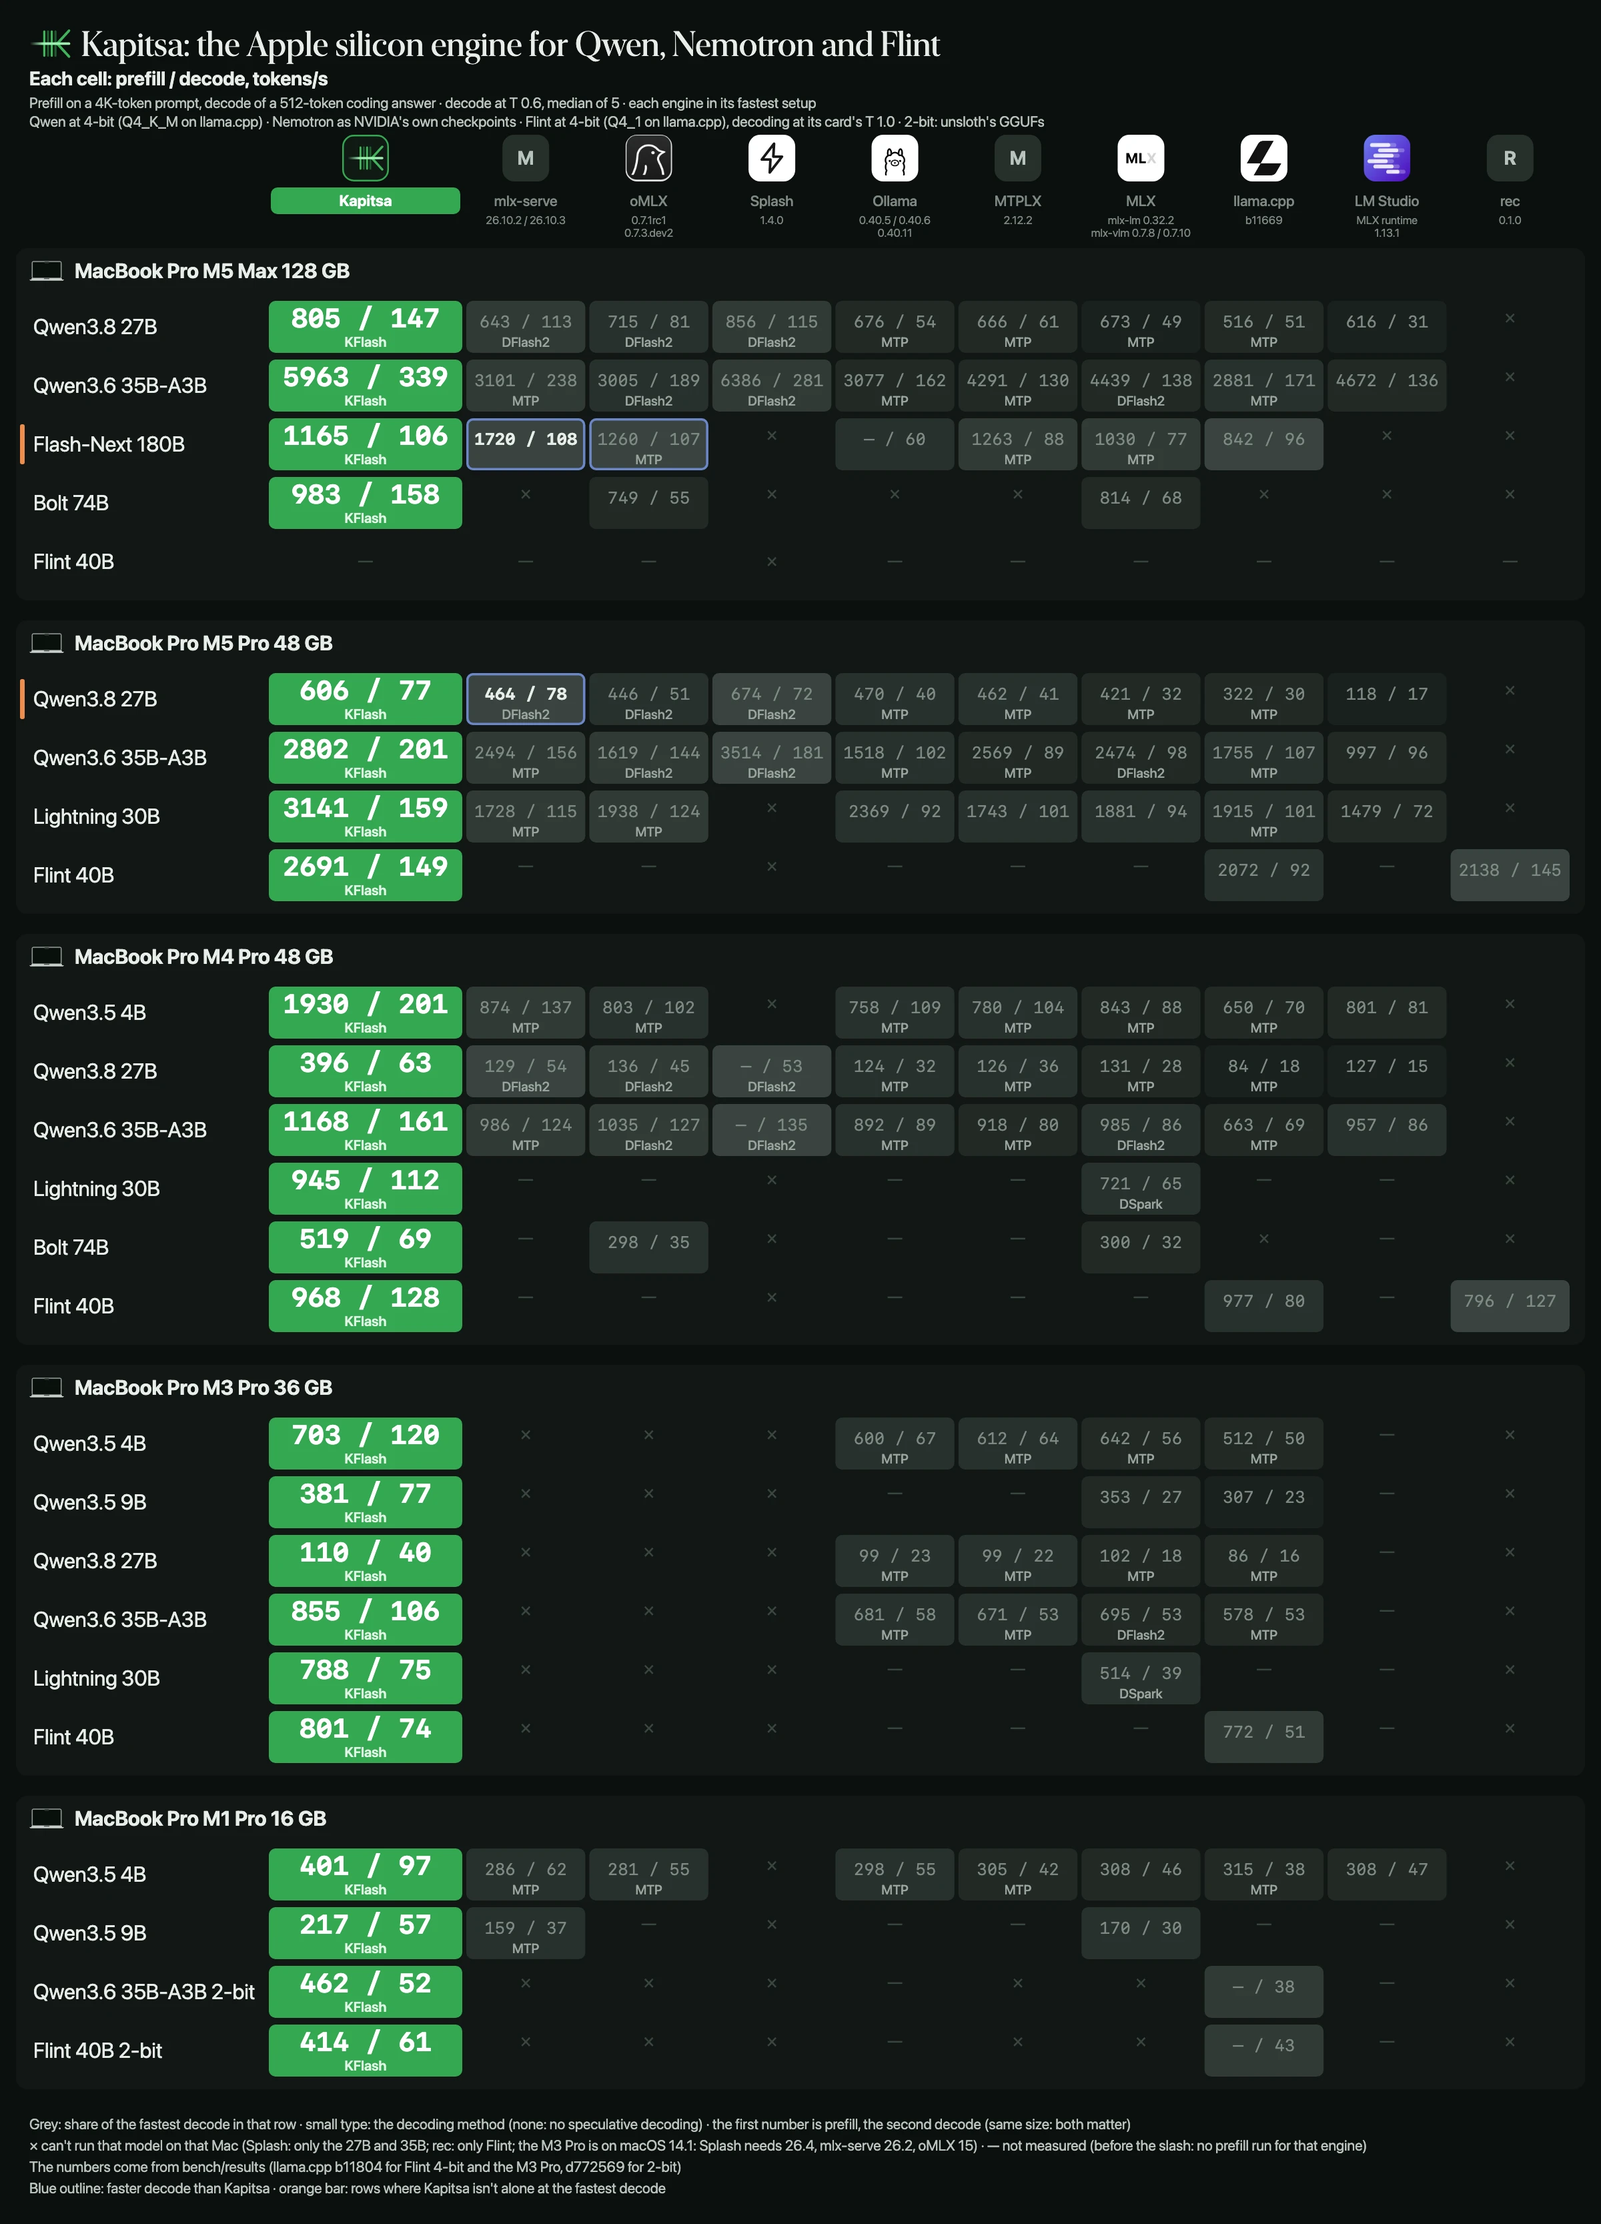
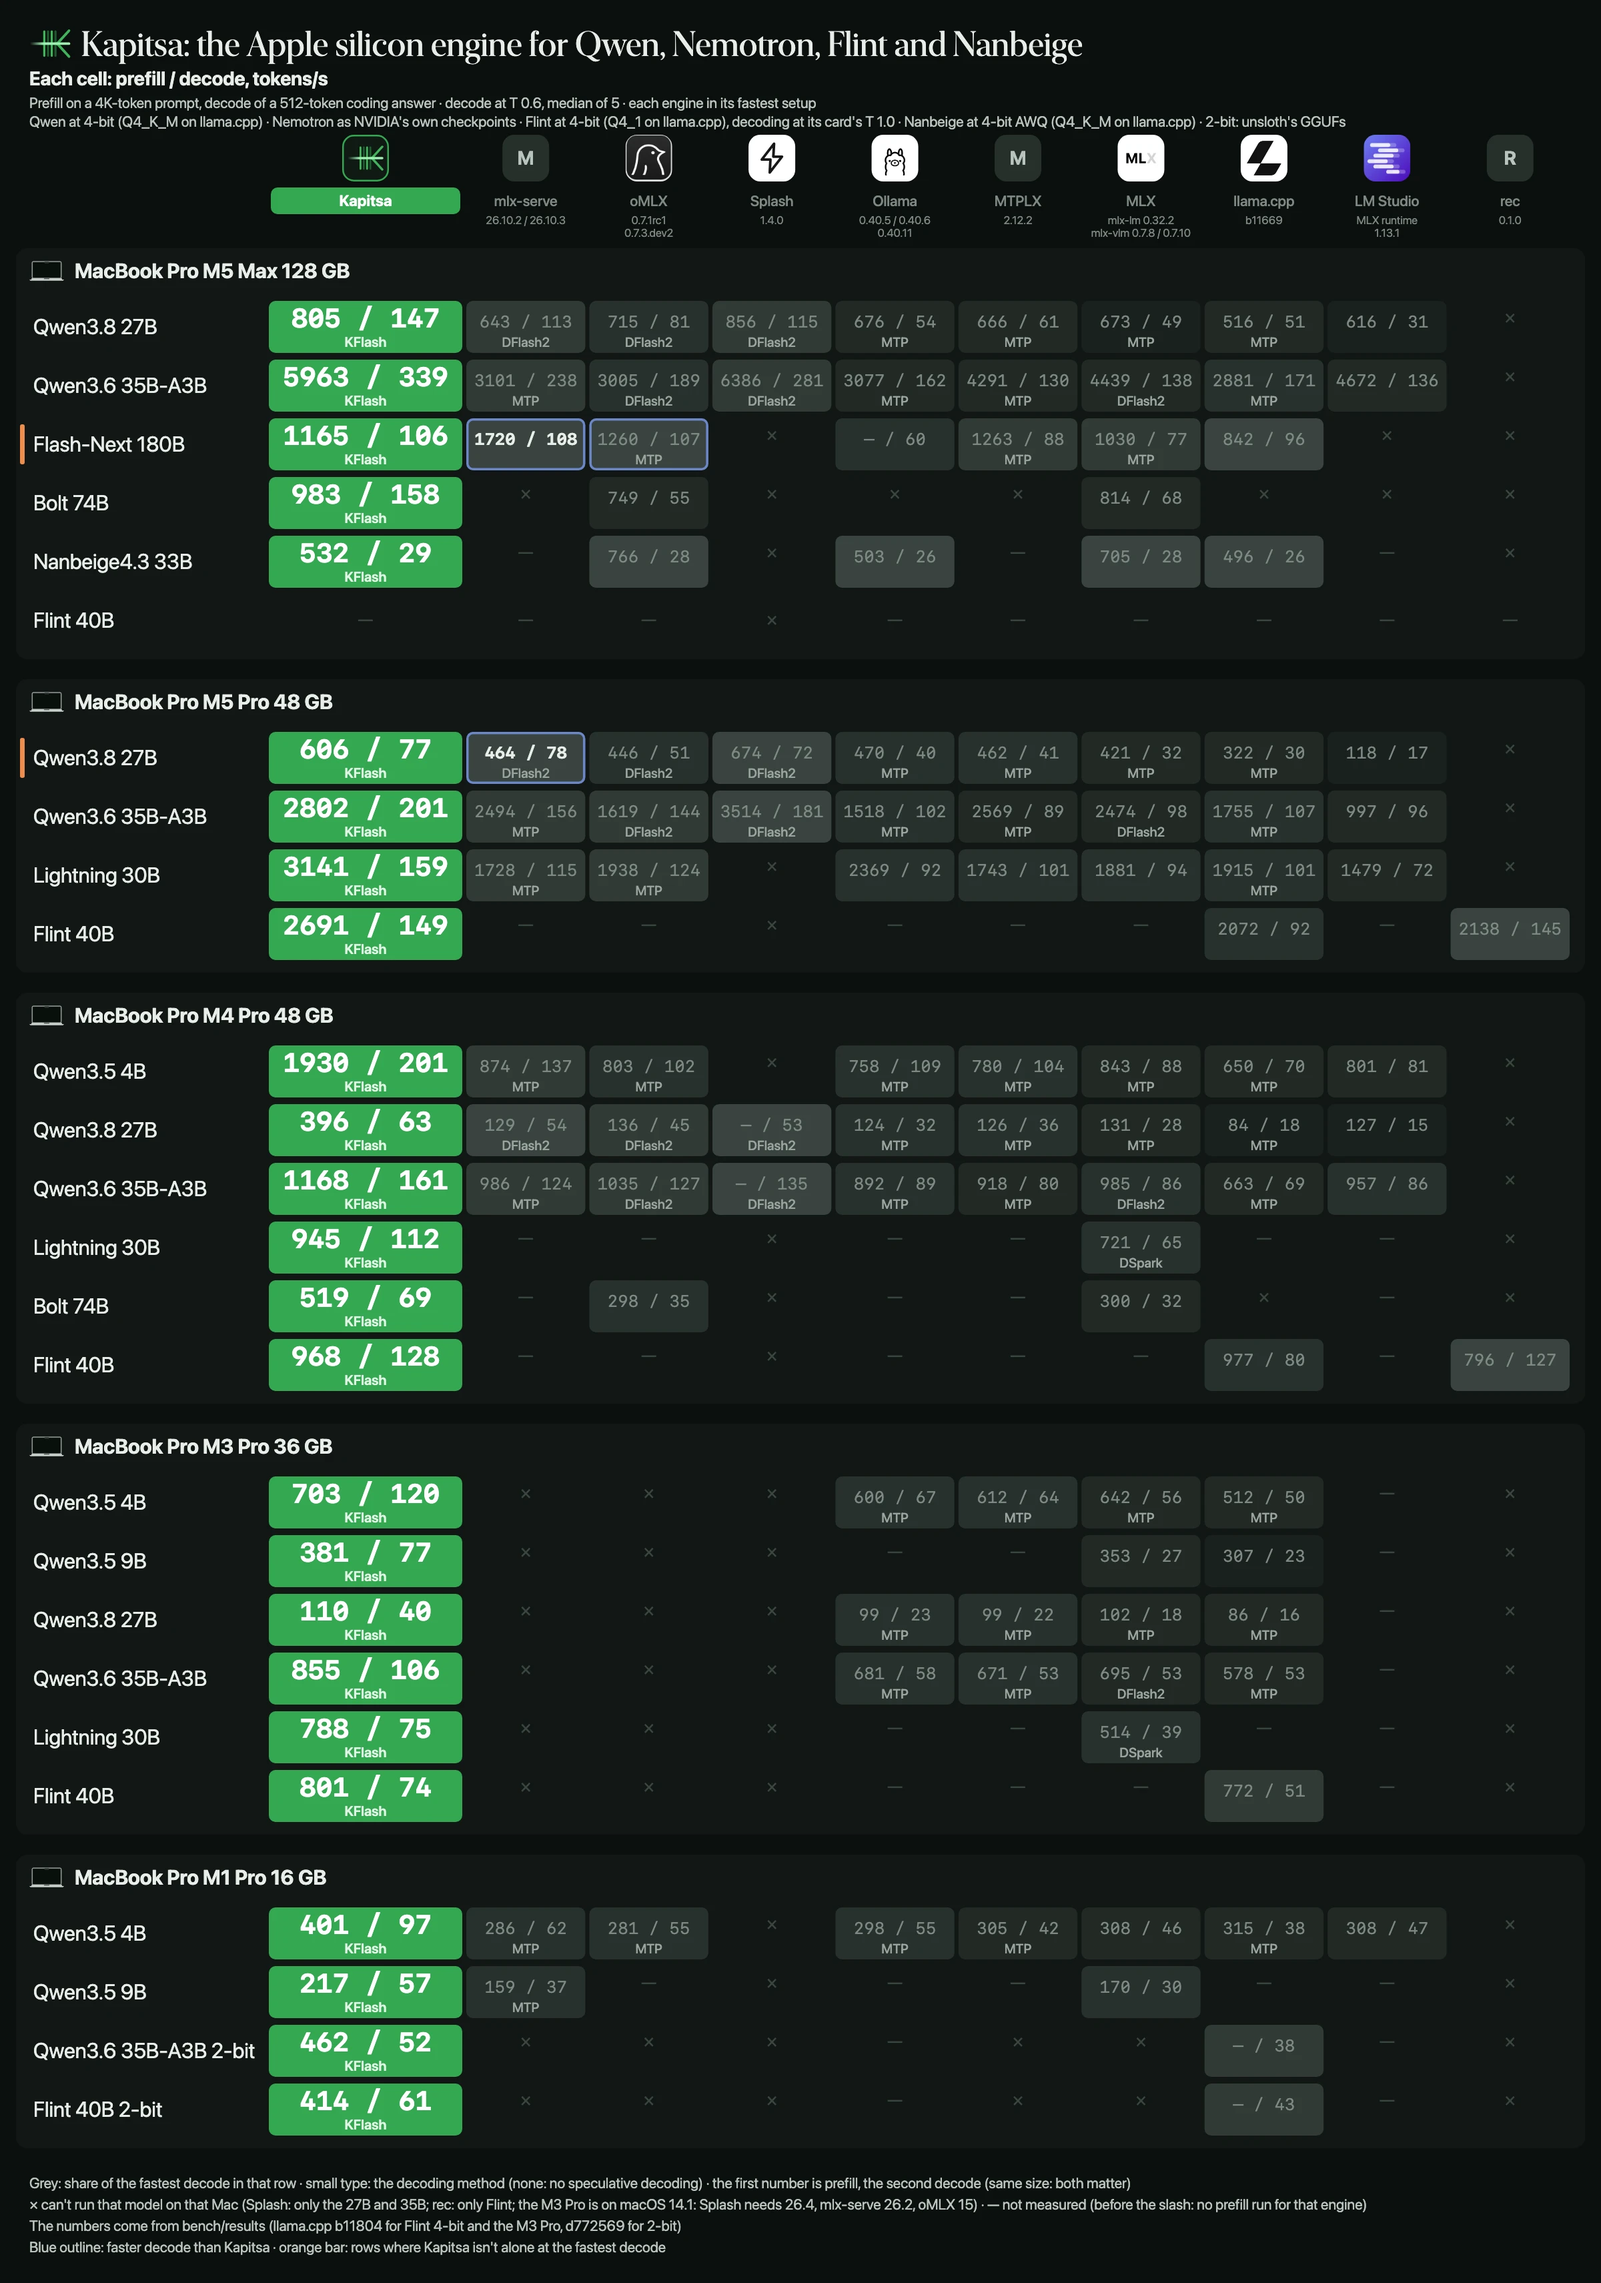
Poster and tables: Nanbeige4.3-33B on the M5 Max (Kapitsa 532 / 29 tok/s, the row's fastest decode; 33 of 37 pairs) (#636)

diff --git a/tests/test_readme_images.py b/tests/test_readme_images.py
@@ -25,7 +25,7 @@ for r in rows:
     if ri.is_num(v):
         n += 1
         assert label == "KFlash", (r["model"], label)
-assert n == 37, n   # every Kapitsa number in readme_images.json; update when cells are added or removed
+assert n == 38, n   # every Kapitsa number in readme_images.json; update when cells are added or removed
 assert all(h["method"] == "KFlash" for h in ri.header_rows(data) if h["kap"] and h["value"] is not None)
 hr = ri.header_rows(data)   # the header SVGs' <desc> (and the README alt text) name Kapitsa's method as KFlash
 assert "Kapitsa with KFlash " in ri.header_desc(data, hr), ri.header_desc(data, hr)

diff --git a/README.md b/README.md
@@ -13,7 +13,7 @@ Kapitsa is an inference engine for Apple silicon that runs Qwen, Nemotron and Re
 - [2026/10] 🪶 **Flint on a 16 GB Mac: decodes at 61 tok/s vs llama.cpp's 43 on the same 2-bit GGUF.** `--model flint` takes unsloth's 2-bit GGUF on 16-24 GB Macs: its routed experts run as stored, the rest requantized to 3-6 bits. 61 tok/s decode on an M1 Pro, in 11.6 GB ([numbers](docs/benchmarks.md#recursive-flint-40b-a25b-with-2-bit-experts-m1-pro-16-gb-2026-10-22)).
 - [2026/10] 🪨 **Recursive's Flint 40B-A2.5B: Kapitsa reads prompts faster than Recursive's own engine and decodes faster than llama.cpp.** On the M4 Pro every Kapitsa run read 4K and 16K prompts faster than every run of rec 0.1.0. On the M5 Pro, since Flint's attention moved to the tensor units (#345), both runs read 4K and 16K prompts faster than rec's and llama.cpp's; earlier builds read slower, and both runs carry harness flags. On both Macs every Kapitsa run decodes faster than llama.cpp ([M4 Pro](docs/benchmarks.md#recursive-flint-40b-a25b-m4-pro-2026-10-22), [M5 Pro](docs/benchmarks.md#recursive-flint-40b-a25b-m5-pro-2026-10-22)).
 - [2026/10] 🚀 **KFlash: tree speculative decoding, up to 3.5× llama.cpp and 2.2× oMLX.** One verify pass checks a whole tree of the drafter's guesses ([how it works](docs/kflash.md)).
-- [2026/10] 🏆 **Kapitsa: the fastest decode in 32 of 36 model and Mac pairs** against nine engines, up to 3.0× MLX ([poster](#benchmarks)).
+- [2026/10] 🏆 **Kapitsa: the fastest decode in 33 of 37 model and Mac pairs** against nine engines, up to 3.0× MLX ([poster](#benchmarks)).
 - [2026/10] 🤝 **KFlash budget: subagents decode together.** Three requests at once share one verify pass, up to **+23% total throughput** on the 27B.
 - [2026/10] ⚡ **QMT prefill: read the prompt up to 1.5× faster on M5.** Metal 4 matrix units for the prompt (4B, M5 Pro).
 - [2026/10] 💾 **SSD prefix cache: restart the server, keep the conversation.** A 16K-token follow-up on the 35B starts in **0.16 s instead of 17 s**, about 100× (`--disk-cache`).
@@ -59,7 +59,7 @@ server to its own Mac. [Usage guide](docs/usage.md)</sub>
 
 ## Benchmarks
 
-Kapitsa has the fastest decode in 32 of the 36 model and Mac pairs measured against nine engines ([how each number was measured](docs/benchmarks.md#how-the-readme-poster-was-measured)).
+Kapitsa has the fastest decode in 33 of the 37 model and Mac pairs measured against nine engines ([how each number was measured](docs/benchmarks.md#how-the-readme-poster-was-measured)).
 
 <picture>
   <source media="(prefers-color-scheme: dark)" srcset="docs/assets/benchmarks-dark.webp">
@@ -77,7 +77,9 @@ The catalog models measured on each Mac, against the engines that run them: one 
 <sub>Each cell: prefill / decode, tokens/s (a lone number is decode: no prefill run) · 🟩 fastest decode · ≈ a decode tie with Kapitsa · small type: the decoding method (none: no speculative decoding) · × can't run on that Mac · — not measured</sub>
 
 <details>
-<summary><b>MacBook Pro (16-inch, 2026) · M5 Max · 128 GB</b> · 7 models</summary>
+<summary><b>MacBook Pro (16-inch, 2026) · M5 Max · 128 GB</b> · 8 models</summary>
+
+**Qwen and Nemotron**
 
 | Model | <mark>**Kapitsa**</mark> | <sub>mlx‑serve<br>26.10.2 / 26.10.3</sub> | <sub>oMLX<br>0.7.1rc1 / 0.7.3.dev2</sub> | <sub>Splash<br>1.4.0</sub> | <sub>Ollama<br>0.40.5 / 0.40.11</sub> | <sub>MTPLX<br>2.12.2</sub> | <sub>MLX<br>mlx-vlm 0.7.8 / 0.7.10</sub> | <sub>llama.cpp<br>b11669</sub> | <sub>LM&nbsp;Studio<br>MLX runtime 1.13.1 (nax), llama.cpp runtime 2.60.0</sub> |
 | --- | ---: | ---: | ---: | ---: | ---: | ---: | ---: | ---: | ---: |
@@ -89,7 +91,13 @@ The catalog models measured on each Mac, against the engines that run them: one 
 | **Nemotron 3.5 Bolt 74B-A9B** · `bolt`<br><sub>hybrid MoE, 9B active · 2/4/8-bit mix, 25.1 GB</sub> | 🟩 983 / **158**<br><sub>KFlash · cd20dcc</sub> | × | 749 / 55<br><sub>0.7.3.dev2</sub> | × | × | × | 814 / 68<br><sub>mlx-vlm 0.7.10</sub> | × | × |
 | **Nemotron 3.5 Super-VL 120B-A12B** · `super`<br><sub>hybrid MoE, 12B active · NVFP4, 76.4 GB</sub> | 🟩 **94**<br><sub>KFlash · fd85910</sub> | × | 52<br><sub>0.7.1rc1</sub> | × | 64<br><sub>0.40.5</sub> | 44 | 46<br><sub>mlx-vlm 0.7.8</sub> | 66 | 61<br><sub>llama.cpp runtime 2.60.0</sub> |
 
-<sub>The 27B, 35B-A3B and Bolt rows are the 2026-10-25 session (Kapitsa main cd20dcc and each engine's latest release, macOS 26.4); llama.cpp's cells there, the Flash-Next row and the Nemotron rows are the 2026-10-18 to 10-22 runs, not yet re-measured. The build each cell ran is under its number; details in [bench/results/2026-10-25-m5-max](bench/results/2026-10-25-m5-max/README.md).</sub>
+**Nanbeige**
+
+| Model | <mark>**Kapitsa**</mark> | <sub>oMLX<br>0.7.3.dev2</sub> | <sub>Ollama<br>0.40.11, GGUF runner</sub> | <sub>MLX<br>mlx-vlm 0.7.10</sub> | <sub>llama.cpp<br>b11871</sub> |
+| --- | ---: | ---: | ---: | ---: | ---: |
+| **Nanbeige4.3-33B** · `nanbeige`<br><sub>dense · 4-bit AWQ (8-bit embedding and head), 19.8 GB</sub> | 🟩 532 / **29**<br><sub>KFlash</sub> | 766 / 28 | 503 / 26 | 705 / 28 | 496 / 26 |
+
+<sub>The 27B, 35B-A3B and Bolt rows are the 2026-10-25 session (Kapitsa main cd20dcc and each engine's latest release, macOS 26.4); llama.cpp's cells there, the Flash-Next row and the Nemotron rows are the 2026-10-18 to 10-22 runs, not yet re-measured. The build each cell ran is under its number; details in [bench/results/2026-10-25-m5-max](bench/results/2026-10-25-m5-max/README.md). The Nanbeige row is the 2026-10-25 harness run (Kapitsa 5bee92c, plain decoding; the GGUF engines on Q4_K_M) in [bench/results/2026-10-25-m5-max-nanbeige](bench/results/2026-10-25-m5-max-nanbeige/README.md).</sub>
 
 </details>
 

diff --git a/docs/benchmarks.md b/docs/benchmarks.md
@@ -27,7 +27,7 @@ decode over the next fastest engine on that model.
 | [M3 Pro, 36 GB](#m3-pro) | 4B 1.79x · 9B **2.90x** · 27B 1.77x · 35B-A3B 1.84x · Lightning 1.92x · Flint 1.45x · Dory 1.21x | Nano 4B decode: llama.cpp 34.9 against 34.4. Nano 9B v2: mlx-lm 24.9 against 20.9 (both on lighter 4-bit files) |
 | [M1 Pro, 16 GB](#m1-pro) | 4B 1.56x · 9B 1.54x · 35B-A3B 2-bit 1.37x · Flint 2-bit 1.42x · Dory 1.30x · Nano 4B 1.32x · Nano 9B v2 1.39x | — |
 
-Kapitsa has the fastest decode in 32 of the 36 model and Mac pairs.
+Kapitsa has the fastest decode in 33 of the 37 model and Mac pairs.
 
 <a id="how-the-readme-poster-was-measured"></a><a id="the-readmes-tables"></a>
 
